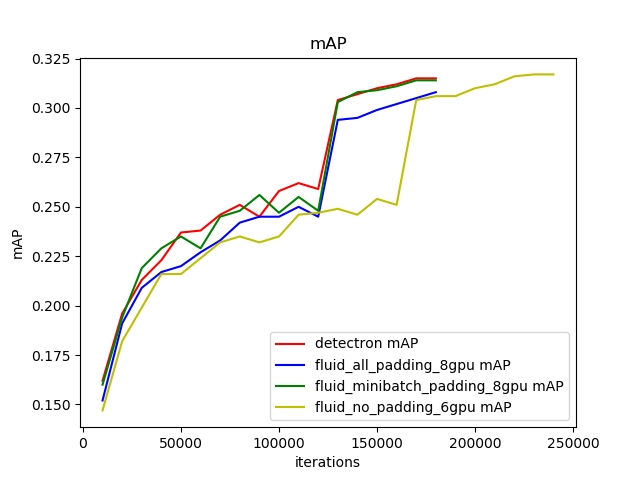
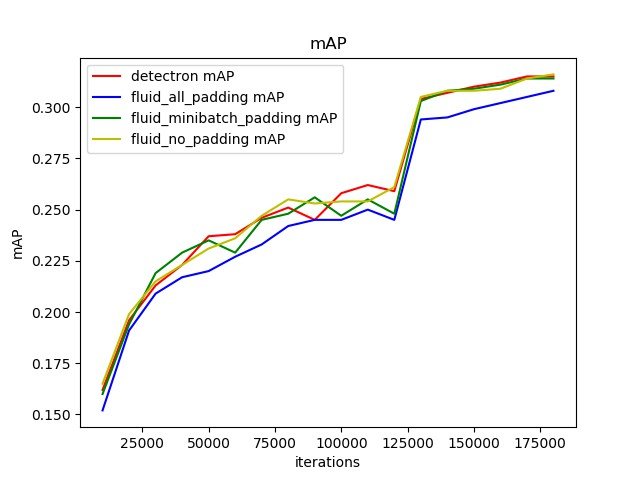
refine README

diff --git a/fluid/faster_rcnn/README_cn.md b/fluid/faster_rcnn/README_cn.md
@@ -42,7 +42,7 @@ Faster RCNN 目标检测模型
 
     python train.py \
        --max_size=1333 \
-       --scales=800 \
+       --scales=[800] \
        --batch_size=8 \
        --model_save_dir=output/ \
        --pretrained_model=${path_to_pretrain_model}
@@ -57,6 +57,21 @@ Faster RCNN 目标检测模型
     sh ./pretrained/download.sh
 
 通过初始化`pretrained_model` 加载预训练模型。同时在参数微调时也采用该设置加载已训练模型。
+
+**安装[cocoapi](https://github.com/cocodataset/cocoapi)：**
+
+训练前需要首先下载[cocoapi](https://github.com/cocodataset/cocoapi)：
+
+    # COCOAPI=/path/to/clone/cocoapi
+    git clone https://github.com/cocodataset/cocoapi.git $COCOAPI
+    cd $COCOAPI/PythonAPI
+    # if cython is not installed
+    pip install Cython
+    # Install into global site-packages
+    make install
+    # Alternatively, if you do not have permissions or prefer
+    # not to install the COCO API into global site-packages
+    python2 setup.py install --user
 
 **数据读取器说明：** 数据读取器定义在reader.py中。所有图像将短边等比例缩放至`scales`，若长边大于`max_size`, 则再次将长边等比例缩放至`max_iter`。在训练阶段，对图像采用水平翻转。支持将同一个batch内的图像padding为相同尺寸。
 
@@ -87,18 +102,7 @@ Faster RCNN 训练loss
 
 ## 模型评估
 
-模型评估是指对训练完毕的模型评估各类性能指标。本示例采用[COCO官方评估](http://cocodataset.org/#detections-eval)，使用前需要首先下载[cocoapi](https://github.com/cocodataset/cocoapi)：
-
-    # COCOAPI=/path/to/clone/cocoapi
-    git clone https://github.com/cocodataset/cocoapi.git $COCOAPI
-    cd $COCOAPI/PythonAPI
-    # if cython is not installed
-    pip install Cython
-    # Install into global site-packages
-    make install
-    # Alternatively, if you do not have permissions or prefer
-    # not to install the COCO API into global site-packages
-    python2 setup.py install --user
+模型评估是指对训练完毕的模型评估各类性能指标。本示例采用[COCO官方评估](http://cocodataset.org/#detections-eval)
 
 `eval_coco_map.py`是评估模块的主要执行程序，调用示例如下：
 
@@ -120,7 +124,7 @@ Faster RCNN mAP
 | Detectron                 | 8            |    180000        | 0.315 |
 | Fluid minibatch padding | 8            |    180000        | 0.314 |
 | Fluid all padding         | 8            |    180000        | 0.308 |
-| Fluid no padding            |6            |    240000        | 0.317 |
+| Fluid no padding            |8            |    180000        | 0.316 |
 
 * Fluid all padding: 每张图像填充为1333\*1333大小。
 * Fluid minibatch padding: 同一个batch内的图像填充为相同尺寸。该方法与detectron处理相同。

diff --git a/fluid/faster_rcnn/README.md b/fluid/faster_rcnn/README.md
@@ -43,7 +43,7 @@ After data preparation, one can start the training step by:
 
     python train.py \
        --max_size=1333 \
-       --scales=800 \
+       --scales=[800] \
        --batch_size=8 \
        --model_save_dir=output/
 
@@ -57,6 +57,21 @@ After data preparation, one can start the training step by:
     sh ./pretrained/download.sh
 
 Set `pretrained_model` to load pre-trained model. In addition, this parameter is used to load trained model when finetuning as well.
+
+**Install the [cocoapi](https://github.com/cocodataset/cocoapi):**
+
+To train the model, [cocoapi](https://github.com/cocodataset/cocoapi) is needed. Install the cocoapi:
+
+    # COCOAPI=/path/to/clone/cocoapi
+    git clone https://github.com/cocodataset/cocoapi.git $COCOAPI
+    cd $COCOAPI/PythonAPI
+    # if cython is not installed
+    pip install Cython
+    # Install into global site-packages
+    make install
+    # Alternatively, if you do not have permissions or prefer
+    # not to install the COCO API into global site-packages
+    python2 setup.py install --user
 
 **data reader introduction:**
 
@@ -103,18 +118,7 @@ Finetuning is to finetune model weights in a specific task by loading pretrained
 
 ## Evaluation
 
-Evaluation is to evaluate the performance of a trained model. This sample provides `eval_coco_map.py` which uses a COCO-specific mAP metric defined by [COCO committee](http://cocodataset.org/#detections-eval). To use `eval_coco_map.py` , [cocoapi](https://github.com/cocodataset/cocoapi) is needed. Install the cocoapi:
-
-    # COCOAPI=/path/to/clone/cocoapi
-    git clone https://github.com/cocodataset/cocoapi.git $COCOAPI
-    cd $COCOAPI/PythonAPI
-    # if cython is not installed
-    pip install Cython
-    # Install into global site-packages
-    make install
-    # Alternatively, if you do not have permissions or prefer
-    # not to install the COCO API into global site-packages
-    python2 setup.py install --user
+Evaluation is to evaluate the performance of a trained model. This sample provides `eval_coco_map.py` which uses a COCO-specific mAP metric defined by [COCO committee](http://cocodataset.org/#detections-eval).
 
 `eval_coco_map.py` is the main executor for evalution, one can start evalution step by:
 
@@ -136,7 +140,7 @@ Faster RCNN mAP
 | Detectron                 | 8            |    180000        | 0.315 |
 | Fluid minibatch padding | 8            |    180000        | 0.314 |
 | Fluid all padding         | 8            |    180000        | 0.308 |
-| Fluid no padding         |6            |    240000        | 0.317 |
+| Fluid no padding         |8            |    180000        | 0.316 |
 
 * Fluid all padding: Each image padding to 1333\*1333.
 * Fluid minibatch padding: Images in one batch padding to the same size. This method is same as detectron.

diff --git a/fluid/README.md b/fluid/README.md
@@ -28,8 +28,11 @@ Fluid模型配置和参数文件的工具。
 
 开放环境中的检测人脸，尤其是小的、模糊的和部分遮挡的人脸也是一个具有挑战的任务。我们也介绍了如何基于 [WIDER FACE](http://mmlab.ie.cuhk.edu.hk/projects/WIDERFace) 数据训练百度自研的人脸检测PyramidBox模型，该算法于2018年3月份在WIDER FACE的多项评测中均获得 [第一名](http://mmlab.ie.cuhk.edu.hk/projects/WIDERFace/WiderFace_Results.html)。
 
+Faster RCNN 是典型的两阶段目标检测器，相较于传统提取区域的方法，Faster RCNN中RPN网络通过共享卷积层参数大幅提高提取区域的效率，并提出高质量的候选区域。
+
 -  [Single Shot MultiBox Detector](https://github.com/PaddlePaddle/models/blob/develop/fluid/object_detection/README_cn.md)
 -  [Face Detector: PyramidBox](https://github.com/PaddlePaddle/models/tree/develop/fluid/face_detection/README_cn.md)
+-  [Faster RCNN](https://github.com/PaddlePaddle/models/tree/develop/fluid/faster_rcnn/README_cn.md)
 
 图像语义分割
 ------------
